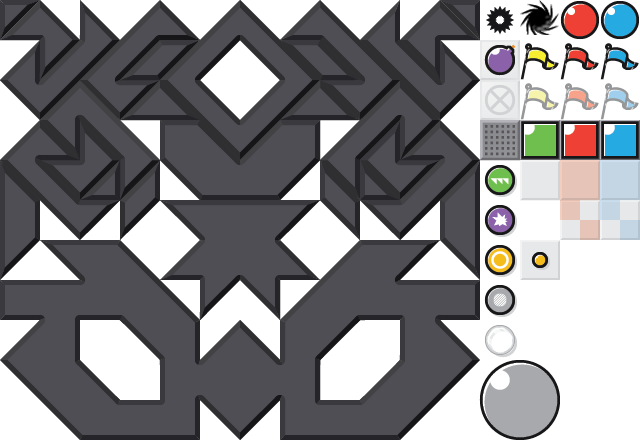
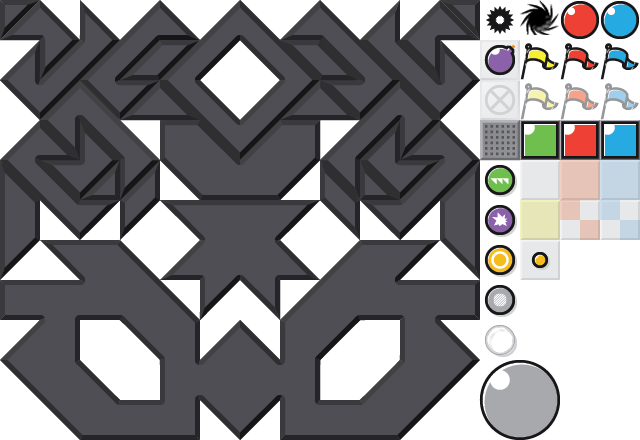
Yellow team tiles (#210)
* Adds yellow tiles to tile list and in renderer
* Update default texture pack to have yellow team tiles

Changed region(s): [[0.8125, 0.4432, 0.875, 0.5614]]

diff --git a/src/js/modules/tiles.js b/src/js/modules/tiles.js
@@ -50,7 +50,8 @@ exports.mapElements = {
   16.1: {tile: "yellowflagtaken", coordinates: {x: 13, y: 4}, tileSize: 40, drawTileFirst: false},
   17: {tile: "redgoal", coordinates: {x: 14, y: 5}, tileSize: 40, drawTileFirst: false},
   18: {tile: "bluegoal", coordinates: {x: 15, y: 5}, tileSize: 40, drawTileFirst: false},
-  22: {tile: "gravitywell", coordinates: {x: 13, y: 0}, tileSize: 40, drawTileFirst: true}
+  22: {tile: "gravitywell", coordinates: {x: 13, y: 0}, tileSize: 40, drawTileFirst: true},
+  23: {tile: "yellowtile", coordinates: {x: 13, y: 5}, tileSize: 40, drawTileFirst: false}
 };
 
 exports.floor_tiles = {
@@ -140,6 +141,7 @@ exports.tiles = {
   10.1: { x: 12, y: 2, drawFloor: !0, redrawFloor: !0, dynamic: !0 },
   11: { x: 14, y: 4 },
   12: { x: 15, y: 4 },
+  23: { x: 13, y: 5 },
   marsball: { x: 12, y: 9, size: 80, keep: !0 },
   13: { x: 0, y: 0, size: 40 },
   13.1: { x: 4, y: 0, size: 40 },

diff --git a/src/js/modules/renderer.js b/src/js/modules/renderer.js
@@ -556,12 +556,13 @@ function drawMap(positions) {
   newcan.style.left = 0;
   let newcontext = newcan.getContext('2d');
 
-  var specialTiles = ['11', '12', '17', '18'];
+  var specialTiles = ['11', '12', '17', '18', '23'];
   var specialTileElements = {
     11: { tile: "redtile", coordinates: { x: 14, y: 4 }, tileSize: 40, drawTileFirst: false },
     12: { tile: "bluetile", coordinates: { x: 15, y: 4 }, tileSize: 40, drawTileFirst: false },
     17: { tile: "redgoal", coordinates: { x: 14, y: 5 }, tileSize: 40, drawTileFirst: false },
-    18: { tile: "bluegoal", coordinates: { x: 15, y: 5 }, tileSize: 40, drawTileFirst: false }
+    18: { tile: "bluegoal", coordinates: { x: 15, y: 5 }, tileSize: 40, drawTileFirst: false },
+    23: { tile: "yellowtile", coordinates: { x: 13, y: 5 }, tileSize: 40, drawTileFirst: false }
   };
 
   var width = positions.tiles.length - 1;
